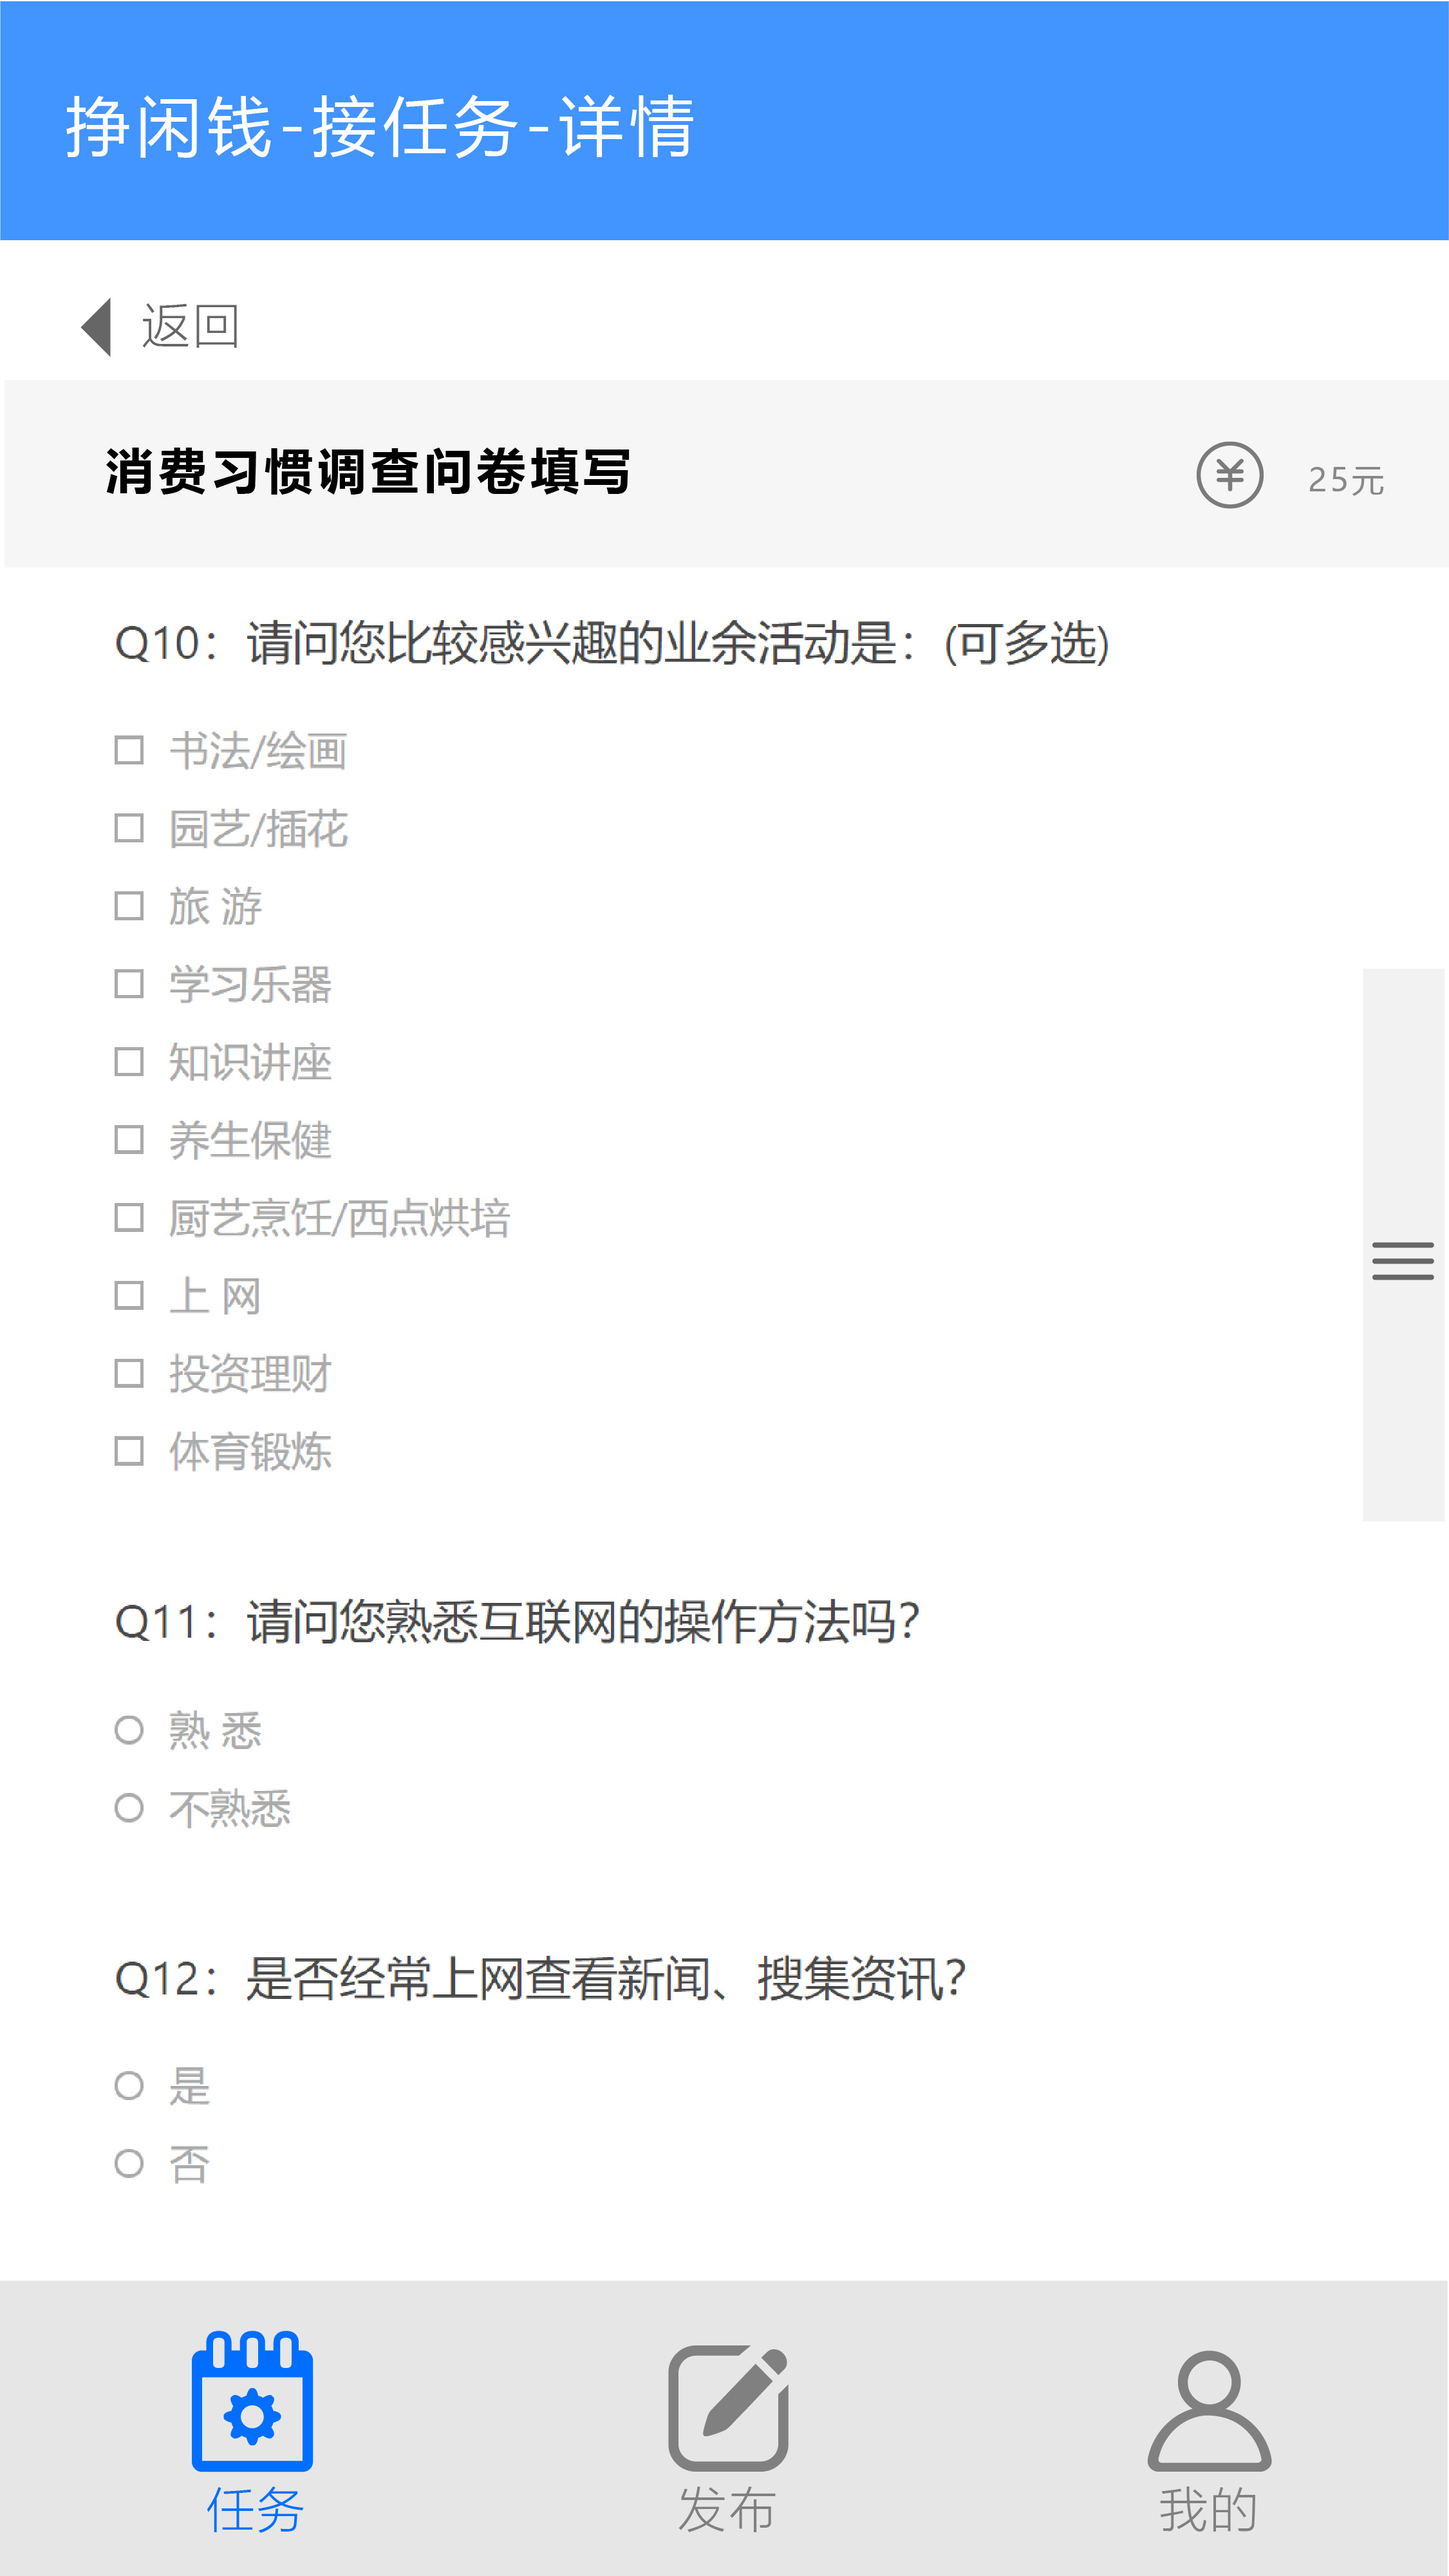
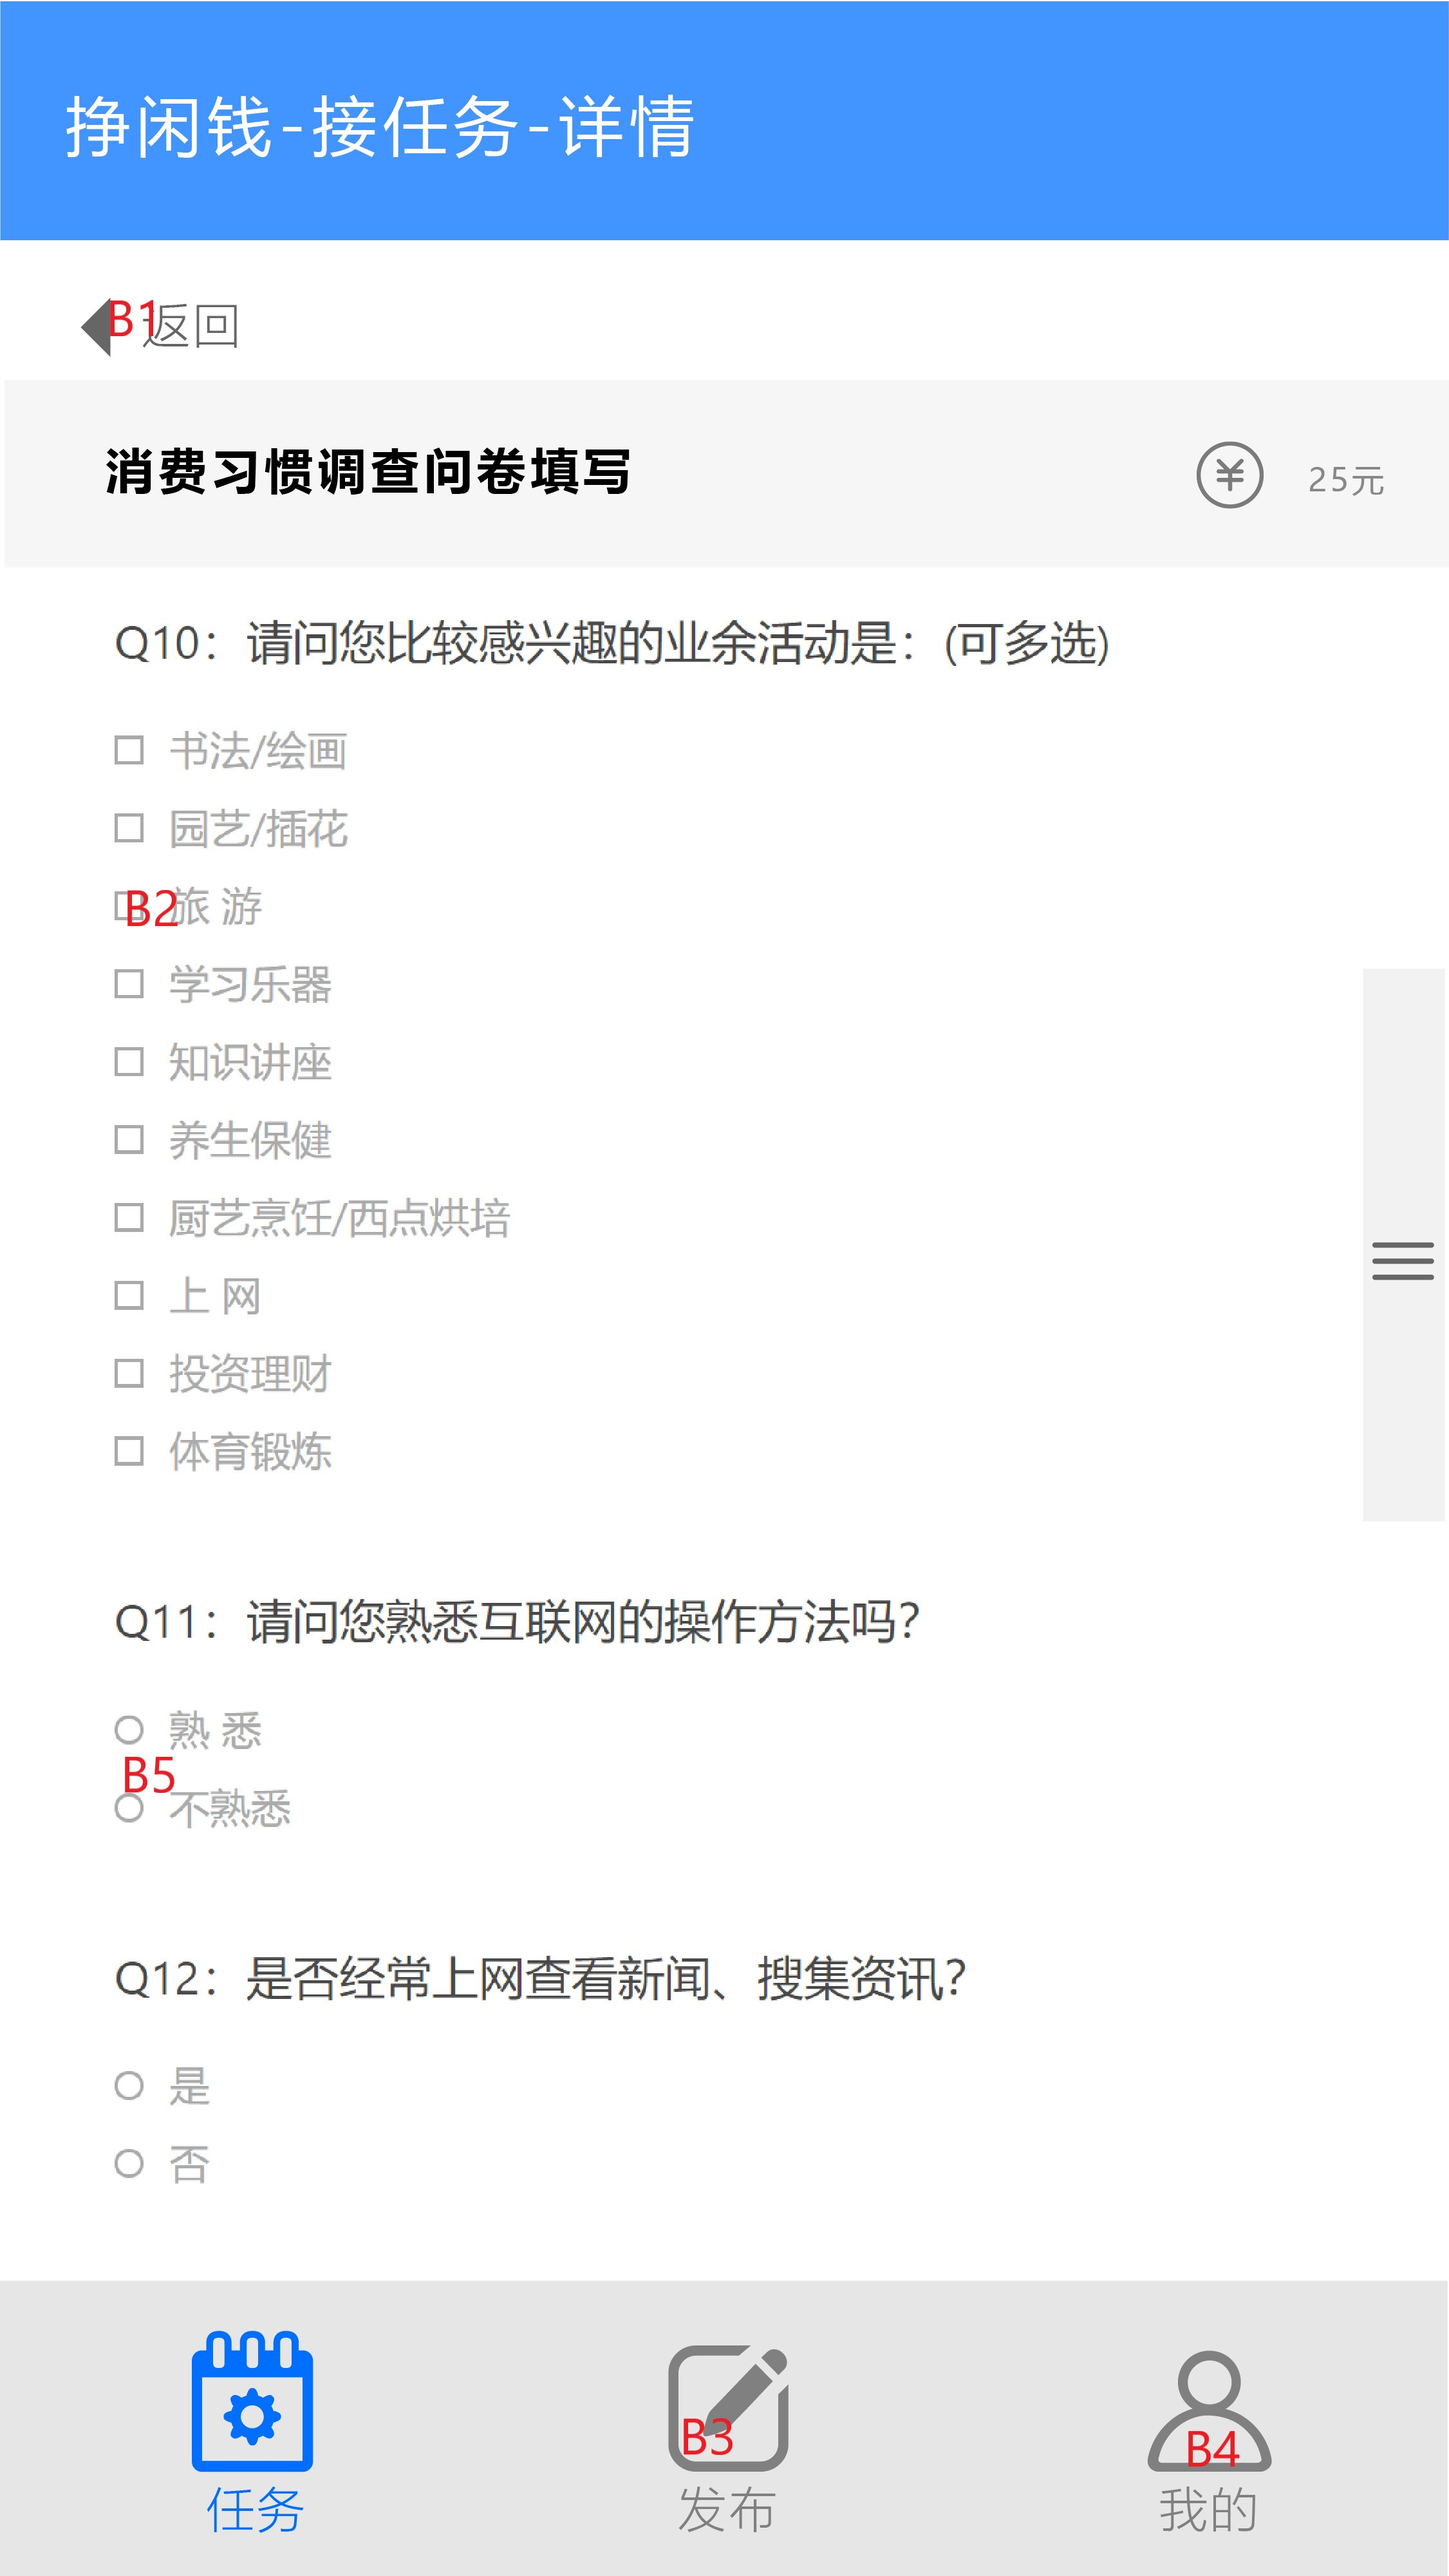
说明

diff --git a/UIDesign/UI 说明.md b/UIDesign/UI 说明.md
@@ -9,5 +9,18 @@
 - A7：字符串匹配，点击可以搜索含有对应字符串的任务（搜索字段包括位置、标题、金额）
 - A8：点击可以重新根据当前A2A3A4的值生成任务列表。
 ## B任务详情界面
+- B1：返回。返回A任务列表界面。当前界面将不会保存
+- B2：选项。点击后该框被勾选
+- B3：点击后跳转到发布界面
+- B4：点击后跳转到我的任务界面
+- B5：点击后空心点变为实心点
+- B6（图标待做，预计和C7一模一样）：确定提交。
 ## C发布界面
+- C1：点击可以输入文字，最多不能超过20个汉字。（直接用库了）
+- C2：点击可以输入文字。（用库）
+- C3：点击自动弹出数字键盘，可以输入数字，这是佣金总数。最多不超过10000。
+- C4：点击可选择分类类型：问卷、被试、兼职
+- C5：点击可以选择校区：东校、南校、北校、珠海、深圳
+- C6：弹出系统时间选择。这是任务的截止期限
+- C7：向服务器提交任务表单
 ## D我的任务界面
